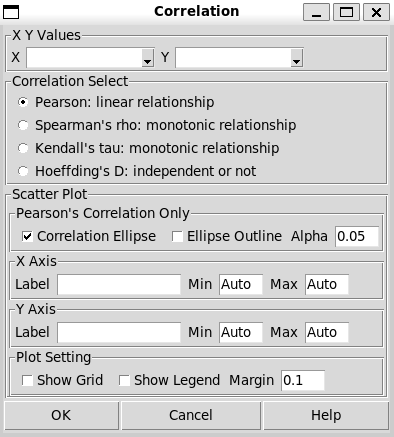
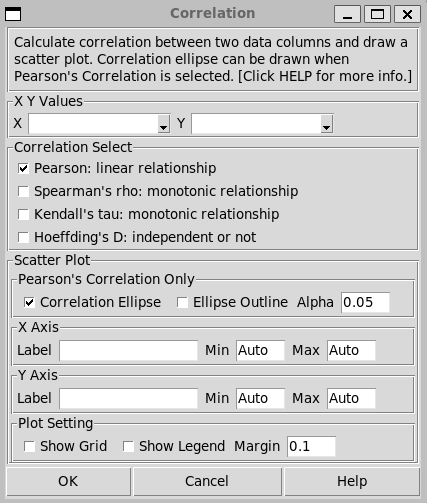
done correlation rst and dialog

diff --git a/code/fit_dialog.py b/code/fit_dialog.py
@@ -158,14 +158,27 @@ class CorrelationDialog(LinearFitDialog):
         #      master, values=stat_list, textvariable=self.stat,
         #      width=5)
         #  w.pack(side=LEFT, padx=2)
-        self.cor = tk.IntVar(value=4)
-        w = tk.Radiobutton(master, text="Pearson: linear relationship", variable=self.cor, value=4)
+        #  self.cor = tk.IntVar(value=4)
+        #  w = tk.Radiobutton(master, text="Pearson: linear relationship", variable=self.cor, value=4)
+        #  w.pack(side=TOP, anchor=W)
+        #  w = tk.Radiobutton(master, text="Spearman's rho: monotonic relationship", variable=self.cor, value=0)
+        #  w.pack(side=TOP, anchor=W)
+        #  w = tk.Radiobutton(master, text="Kendall's tau: monotonic relationship", variable=self.cor, value=1)
+        #  w.pack(side=TOP, anchor=W)
+        #  w = tk.Radiobutton(master, text="Hoeffding's D: independent or not", variable=self.cor, value=2)
+        #  w.pack(side=TOP, anchor=W)
+
+        self.cor_p = tk.BooleanVar(value=True)
+        self.cor_s = tk.BooleanVar(value=False)
+        self.cor_k = tk.BooleanVar(value=False)
+        self.cor_h = tk.BooleanVar(value=False)
+        w = tk.Checkbutton(master, text="Pearson: linear relationship", variable=self.cor_p)
         w.pack(side=TOP, anchor=W)
-        w = tk.Radiobutton(master, text="Spearman's rho: monotonic relationship", variable=self.cor, value=0)
+        w = tk.Checkbutton(master, text="Spearman's rho: monotonic relationship", variable=self.cor_s)
         w.pack(side=TOP, anchor=W)
-        w = tk.Radiobutton(master, text="Kendall's tau: monotonic relationship", variable=self.cor, value=1)
+        w = tk.Checkbutton(master, text="Kendall's tau: monotonic relationship", variable=self.cor_k)
         w.pack(side=TOP, anchor=W)
-        w = tk.Radiobutton(master, text="Hoeffding's D: independent or not", variable=self.cor, value=2)
+        w = tk.Checkbutton(master, text="Hoeffding's D: independent or not", variable=self.cor_h)
         w.pack(side=TOP, anchor=W)
 
         master = tk.LabelFrame(m, text='Scatter Plot')
@@ -211,17 +224,23 @@ class CorrelationDialog(LinearFitDialog):
         #  ylabel = self.ylabel if self.ylabel != "" or self.ylabel is not None else self.yvar.get()
         print("xlabel", xlabel, "y", ylabel)
 
-        cor = self.cor.get()
+        #  cor = self.cor.get()
         print_out = False
         red_ellipse = False
         ellipse = False
-        if cor == 4:
+        if self.cor_p.get():
             red_ellipse = self.red_ellipse.get()
             ellipse = self.ellipse.get()
             print_out = True
-        else:
-            funcs = [spearman, kendall, hoeffding]
-            funcs[cor](x, y, print_out=True, print_port=self.app.print)
+        if self.cor_s.get():
+            spearman(x, y, print_out=True, print_port=self.app.print)
+        if self.cor_k.get():
+            kendall(x, y, print_out=True, print_port=self.app.print)
+        if self.cor_h.get():
+            hoeffding(x, y, print_out=True, print_port=self.app.print)
+        #  else:
+        #      funcs = [spearman, kendall, hoeffding]
+        #      funcs[cor](x, y, print_out=True, print_port=self.app.print)
 
         fit_plot(
             x,

diff --git a/docs/usage/cor.rst b/docs/usage/cor.rst
@@ -20,7 +20,7 @@ Correlation is a statistical measure that describes the strength and direction o
 - **Correlation Select:**  There are two main types of correlation analyses: parametric (like Pearson's correlation) and nonparametric (such as Spearman's and Kendall's correlations). Their difference will be discussed, however select Pearson's Correlation by default if you are not sure.
 - **Scatter Plot Setting:** A scatter plot of data will be displayed, all the settings below are about this plot. 
 
-  - **Correlation Ellipse:** Display a light blue filled ellipse for Bivariate Normal Distribution, which is only available with Pearson's correlation.
+  - **Correlation Ellipse:** Display a light blue filled ellipse for Bivariate Normal Distribution, which is only available with Pearson's correlation. The ellipse will be always drawn unless Pearson's Correlation is unselected. 
   - **Ellipse Outline:** Display a red outline of the ellipse above. Either of these two settings can work alone, but also together.
   - **Alpha:** It determines the contour level of the ellipse. If alpha is 0.05, the ellipse of 95% Probability Contour will be displayed; while 0.3 for 70% of Probability Contour. Leave it by default if you are not sure. This alpha also determines the confidence intervals range of the Pearson's correlation coefficient. 
   - **Axis Settings:**
@@ -139,13 +139,13 @@ A Bivariate Normal Distribution has two independent variables. For example, when
 
 .. raw:: html
 
-<div style="text-align: center;">
+    <div style="text-align: center;">
 
 |img1| |img2|
 
 .. raw:: html
 
-</div>
+    </div>
 
 The ellipse is the contour line of the Bivariate Normal Distribution of the two datasets in the correlation. The commonly used 95% ellipse boundary is the two dimentional form of red line in the univariate distribution, which contains 95% integrated probability under the bell curve. The integrated volume under the bell dorm within the boundary is 95%.
 
@@ -223,7 +223,7 @@ Though Spearman's rho is claimed to handle non-linear relationship better than P
 
 Even though it's not strictly correct in null hypothesis, Spearman's rho doesn't work better than Pearson in distinguish if two variables having non-linear monotonic relationship. 
 
-However, Pearson's correlation and Spearman's rho both handle outliers occure in the dataset poorly. Kendall's tau stands out in this perspective. Tested with non-linear related data I have and those with ourliers, Kendall's tau did a better job in telling the potential correlation between the varialbes. For example, in the `sampmle_data` folder `correlation.pickle`, the column `X` and column `Outlier` have non-linear relationship with outliers. Only Kendall's tau gives small p-value, while all the three methods' coefficients are similar. 
+However, Pearson's correlation and Spearman's rho both handle outliers poorly. Kendall's tau stands out in this perspective. Tested with non-linear related data I have and those with ourliers, Kendall's tau did a better job in telling the potential correlation between the varialbes. For example, in the `sampmle_data` folder `correlation.pickle`, the column `X` and column `Outlier` have non-linear relationship with outliers. Only Kendall's tau gives small p-value, while all the three methods' coefficients are similar. 
 
 
 .. list-table::
@@ -250,4 +250,67 @@ However, Pearson's correlation and Spearman's rho both handle outliers occure in
 Hoeffding's D
 ~~~~~~~~~~~~~
 
+Unlike Spearman's rho, Kendall's tau, and Pearsons's Correlation, Hoeffding's D can be used to detect a wide variety of dependence structures beyond monotonic association. For example the distributions below, except for the first one which is a random distribution, Hoeffding's D will reject the H0 for all datasets, wihch is that the two varialbes are independent.
 
+.. image:: images/cor_heoffd1.png
+   :align: center
+
+Like the other two non-parametric methods, Hoeffding's D can handle both continuous and ordinal data. This algorithm can handle problems much broader than this software offering. Here is a good article discussing this algorithm. `LINK <https://github.com/Dicklesworthstone/hoeffdings_d_explainer/blob/main/README.md>`_
+
+If we testing the data set above with Hoeffding's D, it will give a definite rejection to the null hypothesis. 
+
+
+.. list-table::
+   :widths: 33 67
+   :class: tight-table
+
+   * - .. image:: images/cor_outlier.png
+     - .. code-block:: none
+
+            ---- Hoeffding's D Correlation ----
+            Hoeffding's D: 0.196
+            Hoeffding's p-value: 0.000
+            H0: The two variables are independent.
+
+While there is another dataset we can test in the `correlation.pickle` sample sets, the first and second column show two linear relationships who go in different directions with random errors. Testing with the four correlations, only Hoeffding's D gave a p-value less than 0.05 and rejected the null hypothesis.
+
+
+.. list-table::
+   :widths: 33 67
+   :class: tight-table
+
+   * - .. image:: images/cor_heoffd2.png
+     - .. code-block:: none
+
+            ---- Spearman's rho Correlation ----
+            Spearman's rho correlation: 0.103
+            Spearman's rho p-value: 0.570
+            H0: The population Spearman's rho = 0, which means no monotonic relationship between the two variables.
+
+            ---- Kendall's tau Correlation ----
+            Kendall's tau: 0.102
+            Kendall's tau p-value: 0.415
+            H0: The population Kendall's tau = 0, which means no monotonic association between the two variables.
+
+            ---- Hoeffding's D Correlation ----
+            Hoeffding's D: 0.043
+            Hoeffding's D p-value: 0.019
+            H0: The two variables are independent.
+
+            ---- Pearson correlation alpha = 0.050 ----
+            Correlation coefficient: 0.204
+            Confidence Interval (-0.150, 0.512)
+            Covariance: 571.448
+            p-value = 0.254 N = 33
+            P-value is the probability of there is no linear relationship betweent the two populations.
+
+There is also a dataset without any random errors added, Hoeffding's D gives a higher D value and a much smaller p-value. 
+
+In general, Pearson's Correlation is good enough for most of the cases. Hoeffding's D is a great choice when complicated relationship involved, and to determine the random error amount inside the datasets. Hoeffding's D value generally increases monotonically with stronger relationships between variables, which can be used as the measure of randomness. 
+
+- Hoeffding's D ranges from -0.5 to 1.
+- A value of 0 indicates no association between the variables.
+- As the strength of the association between two variables increases, the D value tends to increase as well.
+- Positive values indicate a positive association.
+- Negative values are rare and may indicate some form of negative association.
+- Values closer to 1 suggest stronger associations.
